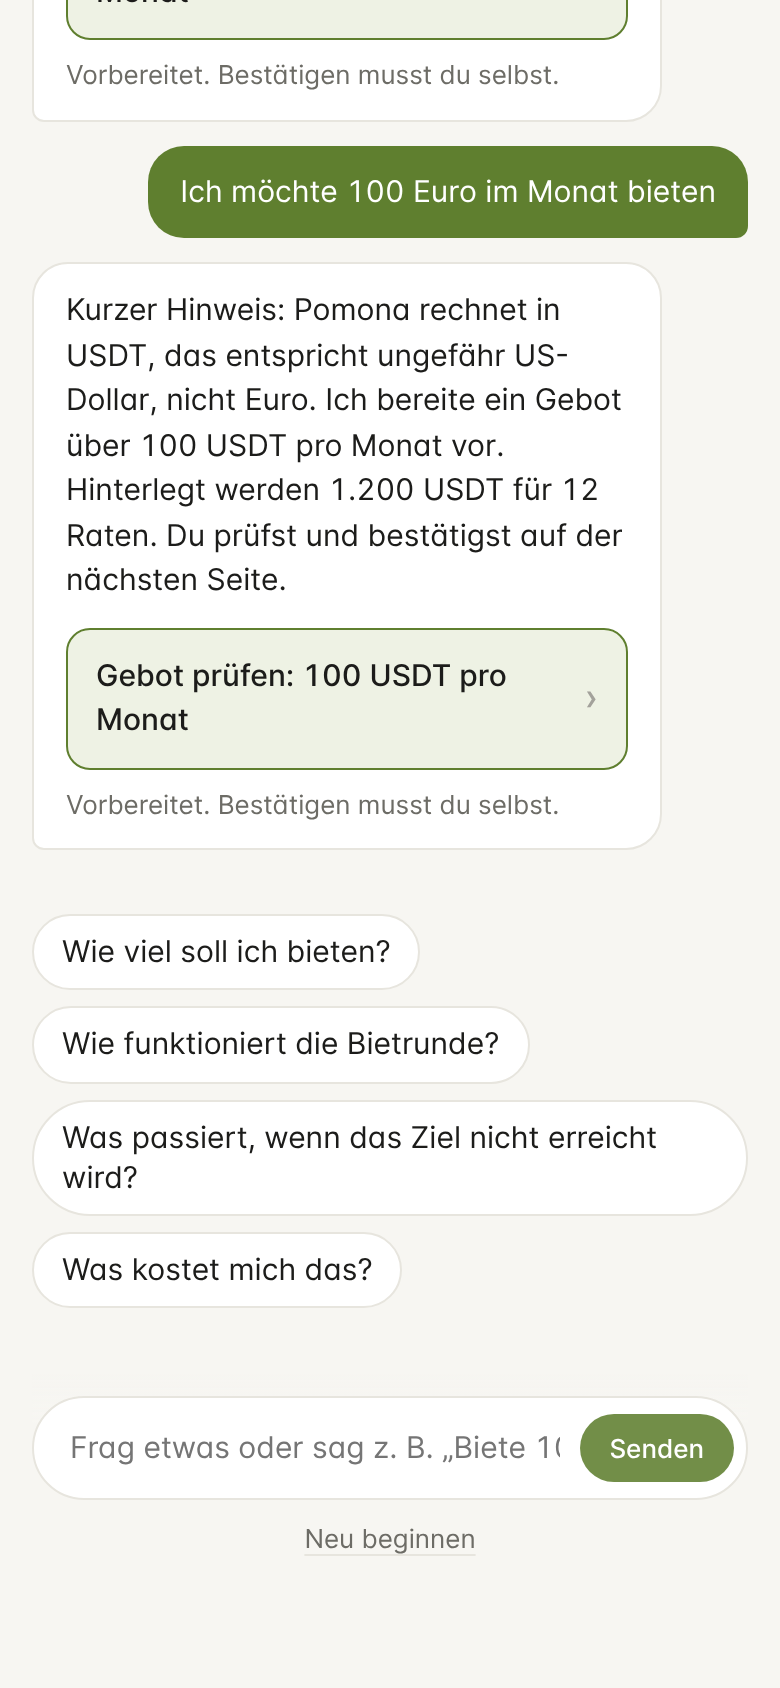
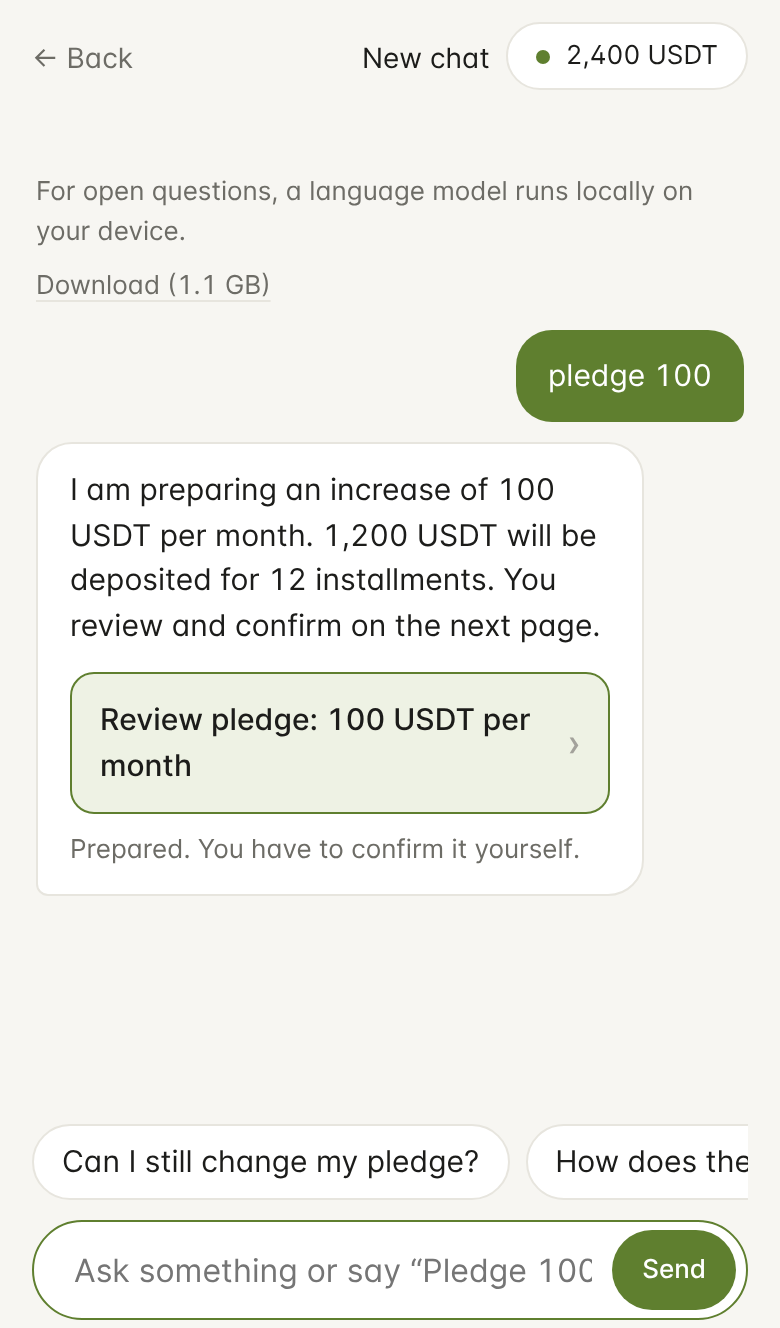
Screenshots im neuen Design (Englisch), Modellgröße und Beleg-Titel in der Sprache
- docs/bidder.png, organizer-invoice.png, receipts.png, receipt.png und
  docs/mobile/assistant-command.png neu aus der Vorschau (iPhone 13, Englisch)
- README: Titelbild schmaler eingebunden
- Modellgröße als Zahl (GB), die Oberfläche formatiert sie in der Sprache (1.1 GB statt 1,1 GB)
- Belegseite: Überschrift beginnt groß (Receipt statt receipt)

Claude-Session: https://claude.ai/code/session_01TF7FVvteEXAV4xKU8JZndh

diff --git a/app/ui/views/assistant.js b/app/ui/views/assistant.js
@@ -3,9 +3,12 @@
  * action cards open the matching page of the app, where the person confirms.
  * @module ui/views/assistant
  */
-import { esc } from '../format.js'
+import { esc, fmt } from '../format.js'
 import { spinner } from './parts.js'
 import { t } from '../../i18n/index.js'
+
+/** Model size in GB, with the decimal separator of the selected language. */
+const gb = (n) => `${fmt(n, 1)} GB`
 
 /** "Frag Pomona": a plain round speech bubble. */
 export const SPARK = `<svg class="ic" viewBox="0 0 24 24" fill="none" stroke="currentColor" stroke-width="1.8" stroke-linecap="round" stroke-linejoin="round" aria-hidden="true">
@@ -24,11 +27,11 @@ function manualCard (a, ui) {
       ? `<p class="warn-text small">${t('assistant.notFound')}</p>`
       : `<p class="warn-text small">${esc(a.error)}</p>`
   return `<div class="card-inset stack">
-    <p>${t('assistant.needModel', { size: esc(m.size) })}</p>
+    <p>${t('assistant.needModel', { size: gb(m.size) })}</p>
     <ol class="setup-steps">
       <li><span class="setup-n">1</span><div class="stack-sm">
         <strong>${t('assistant.download')}</strong>
-        <a class="btn ghost small" href="${esc(m.url)}" target="_blank" rel="noopener noreferrer">${esc(m.file)} · ${esc(m.size)}</a>
+        <a class="btn ghost small" href="${esc(m.url)}" target="_blank" rel="noopener noreferrer">${esc(m.file)} · ${gb(m.size)}</a>
       </div></li>
       <li><span class="setup-n">2</span><div class="stack-sm">
         <strong>${t('assistant.putInFolder')}</strong>
@@ -80,7 +83,7 @@ export function chatBody (ui) {
   } else if (a?.state === 'none' || a?.state === 'error') {
     const small = (a.models || []).find((m) => m.key === 'small')
     model = `<p class="model-line">${a.state === 'error' ? `<span class="warn-text">${esc(a.error)}</span>` : `<span>${t('assistant.local')}</span>`}
-      <button class="link" data-action="agent-install" data-model="small">${t('assistant.load')}${small ? ` (${esc(small.size)})` : ''}</button>${pick(ui, t('assistant.pick'))}</p>`
+      <button class="link" data-action="agent-install" data-model="small">${t('assistant.load')}${small ? ` (${gb(small.size)})` : ''}</button>${pick(ui, t('assistant.pick'))}</p>`
   }
   return `${model}
     <div class="chat" id="chat">

diff --git a/app/ui/views/receipt.js b/app/ui/views/receipt.js
@@ -13,6 +13,9 @@ import { esc, fmt, date, dayTime, short, per } from '../format.js'
 import { btn, field, page, spinner } from './parts.js'
 import { t } from '../../i18n/index.js'
 
+/** First letter upper case: label.receipt is lower case because it also sits inside sentences. */
+const cap = (s) => s.charAt(0).toUpperCase() + s.slice(1)
+
 /** The verification line under a receipt. */
 function verdict (v) {
   if (!v) return `<p class="verify pending">${spinner} ${t('onboarding.checking')}</p>`
@@ -25,7 +28,7 @@ export function receiptSheet (ui) {
   const rc = ui.receipt
   const inv = r.myInvoices[rc.index]
   const p = per(r.intervalName)
-  return page(t('label.receipt'), `
+  return page(cap(t('label.receipt')), `
     <div class="receipt">
       <div class="receipt-head">
         <span class="small muted">${t('receipt.kind')}</span>

diff --git a/app/ui/mock.js b/app/ui/mock.js
@@ -154,8 +154,8 @@
     return agent
   }
   const MODELS = [
-    { key: 'small', label: 'Kompakt', size: '1,1 GB', note: '', file: 'Qwen3-1.7B-Q4_0.gguf', url: 'https://huggingface.co/unsloth/Qwen3-1.7B-GGUF/resolve/d7f544eead698dbd1f15126ef60b45a1e1933222/Qwen3-1.7B-Q4_0.gguf' },
-    { key: 'better', label: 'Genauer', size: '2,5 GB', note: '', file: 'Qwen3-4B-Q4_K_M.gguf', url: null }
+    { key: 'small', label: 'Kompakt', size: 1.1, note: '', file: 'Qwen3-1.7B-Q4_0.gguf', url: 'https://huggingface.co/unsloth/Qwen3-1.7B-GGUF/resolve/d7f544eead698dbd1f15126ef60b45a1e1933222/Qwen3-1.7B-Q4_0.gguf' },
+    { key: 'better', label: 'Genauer', size: 2.5, note: '', file: 'Qwen3-4B-Q4_K_M.gguf', url: null }
   ]
   const update = new URLSearchParams(window.location.search).get('update')
   const listeners = []

diff --git a/app/core/agent/qvac.js b/app/core/agent/qvac.js
@@ -14,14 +14,14 @@
 export const MODELS = {
   small: {
     id: 'QWEN3_1_7B_INST_Q4',
-    size: '1,1 GB',
+    size: 1.1, // GB; the UI formats it in the user's language
     // Same file (same SHA-256) the QVAC catalog points to, for manual download.
     file: 'Qwen3-1.7B-Q4_0.gguf',
     url: 'https://huggingface.co/unsloth/Qwen3-1.7B-GGUF/resolve/d7f544eead698dbd1f15126ef60b45a1e1933222/Qwen3-1.7B-Q4_0.gguf'
   },
   better: {
     id: 'QWEN3_4B_INST_Q4_K_M',
-    size: '2,5 GB',
+    size: 2.5, // GB
     file: 'Qwen3-4B-Q4_K_M.gguf',
     url: null // only in QVAC's own storage, no public direct link
   }

diff --git a/README.md b/README.md
@@ -23,9 +23,9 @@ Pomona is the successor to [Contrib](https://github.com/pbrandl/contrib) (Flutte
 
 **Authored by Claude, prompted by [Peter Brandl](https://github.com/pbrandl).** Code, tests and docs were written by [Claude Code](https://claude.com/claude-code); the idea, the requirements and the product decisions come from me. Decisions are logged in [POMONA_PROJECT_NOTES.md](POMONA_PROJECT_NOTES.md).
 
-![A funding round from a backer's point of view](docs/bidder.png)
+<p align="center"><img src="docs/bidder.png" alt="A funding round from a backer's point of view" width="320"></p>
 
-| Organiser invoices | Instalment list | Receipt as QR code |
+| Organiser invoices | Instalment timeline | Receipt as QR code |
 |---|---|---|
 | ![](docs/organizer-invoice.png) | ![](docs/receipts.png) | ![](docs/receipt.png) |
 

diff --git a/docs/RPC.md b/docs/RPC.md
@@ -64,7 +64,7 @@ Amounts are strings in German or English notation, i.e. `"1.234,56"`, `"12,5"` o
   assistant: {                            // "Ask Pomona"
     state: 'none' | 'installed' | 'downloading' | 'loading' | 'ready' | 'error',
     model: 'small' | 'better' | null, progress: 0.34 | null, error: null,
-    models: [{ key, label, size, note, file, url }],
+    models: [{ key, label, size, note, file, url }],   // size in GB (number)
     manual: null | { dir },               // developer mode: model as a file from this folder
     missing: false,                       // true: the file is not in the folder yet
     suggestions: [{ topic, question }]    // matching role and phase

diff --git a/docs/ASSISTANT.md b/docs/ASSISTANT.md
@@ -2,7 +2,7 @@
 
 The assistant is a conversational layer on top of the app. It answers questions in plain words and prepares steps such as "Pledge 100 a month", "Show my receipt for instalment 2" or "Send invoice". **It never executes anything itself.** Every action opens an existing page of the app, and the user confirms there as usual.
 
-![Command without a language model](mobile/assistant-command.png)
+<img src="mobile/assistant-command.png" alt="Command without a language model" width="300">
 
 ## Where the answers come from
 

diff --git a/README.de.md b/README.de.md
@@ -21,7 +21,7 @@ Es gibt keinen Server und keinen Account, und niemand muss einen anderen Token a
 
 Pomona ist der Nachfolger von [Contrib](https://github.com/pbrandl/contrib) (Flutter + Parse Server) und als technisches Vorzeigeprodukt gedacht.
 
-![Runde aus Sicht einer Bieterin](docs/bidder.png)
+<p align="center"><img src="docs/bidder.png" alt="Runde aus Sicht einer Bieterin" width="320"></p>
 
 | Organisator rechnet ab | Ratenliste | Beleg als QR |
 |---|---|---|
